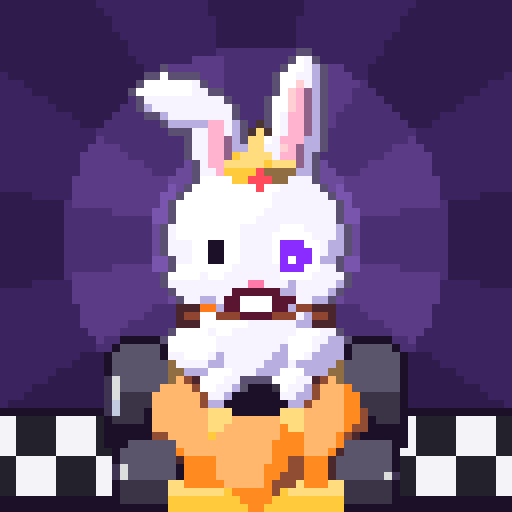
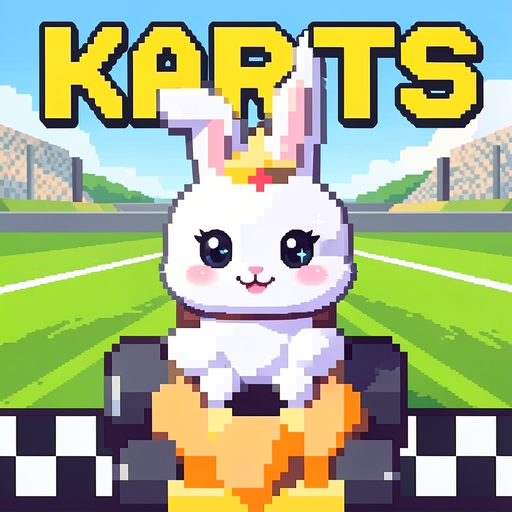
alfa 3982ca0: Karts: icono nuevo (CrazyBunny más mono, pista verde, título KARTS tras las orej

diff --git a/alfa/index.html b/alfa/index.html
@@ -10,10 +10,10 @@
 <link rel="preconnect" href="https://fonts.googleapis.com">
 <link rel="preconnect" href="https://fonts.gstatic.com" crossorigin>
 <link rel="stylesheet" href="https://fonts.googleapis.com/css2?family=Baloo+2:wght@600;700;800&family=Luckiest+Guy&display=swap">
-<link rel="stylesheet" href="core/css/base.css?v=df18fcc">
-<link rel="stylesheet" href="biblioteca/tienda.css?v=df18fcc">
-<link rel="stylesheet" href="novedades/ventana.css?v=df18fcc">
-<link rel="stylesheet" href="biblioteca/votos.css?v=df18fcc">
+<link rel="stylesheet" href="core/css/base.css?v=3982ca0">
+<link rel="stylesheet" href="biblioteca/tienda.css?v=3982ca0">
+<link rel="stylesheet" href="novedades/ventana.css?v=3982ca0">
+<link rel="stylesheet" href="biblioteca/votos.css?v=3982ca0">
 <style>
   /* la entrada de la web: una tarjeta por juego, con los colores y las letras de core */
   body { overflow: auto; touch-action: auto; align-items: flex-start; background-repeat: no-repeat; background-attachment: fixed; }
@@ -61,7 +61,7 @@
 </style>
 </head>
 <body>
-<script src="menu.js?v=df18fcc" data-base="" data-core="1" data-pagina=""></script>
+<script src="menu.js?v=3982ca0" data-base="" data-core="1" data-pagina=""></script>
 <div class="nov-fondo" id="novedades" hidden>
   <div class="nov-caja" role="dialog" aria-modal="true" aria-labelledby="nov-titulo">
     <div class="nov-cabeza"><h2 class="ol" id="nov-titulo">NOVEDADES</h2><p id="nov-sub"></p></div>
@@ -358,8 +358,8 @@
   </section>
   <p class="note" id="pie-fansof">Fans Of™ · © 2026 Arkioner y Pepins · MicroBlizz · Todos los derechos reservados</p>
 </main>
-<script src="core/js/nucleo.js?v=0-a928.df18fcc"></script>
-<script src="core/js/novedades.js?v=df18fcc"></script>
+<script src="core/js/nucleo.js?v=0-a929.3982ca0"></script>
+<script src="core/js/novedades.js?v=3982ca0"></script>
 <script>
 // La cuenta de la web es la misma de los juegos (core/js/sistema/cuenta.js, mismo navegador = misma sesión). Aquí no hay partida que subir.
 const AJUSTES = { id: 'web', guardado: 'fansof-web' }, SAVE_KEY = AJUSTES.guardado, SAVE = {};
@@ -368,7 +368,7 @@ const HOOKS = {};
 function hook(name, fn) { (HOOKS[name] = HOOKS[name] || []).push(fn); }
 function fire(name, ...a) { let out = ''; for (const fn of HOOKS[name] || []) { const r = fn(...a); if (typeof r === 'string') out += r; } return out; }
 </script>
-<script src="core/js/sistema/cuenta.js?v=df18fcc"></script>
+<script src="core/js/sistema/cuenta.js?v=3982ca0"></script>
 <script>NUCLEO.idiomaSolo({ en: ['core/idioma/en-raiz.js', 'novedades/en.js', 'biblioteca/en.js','games/rumble/idioma/en-7.js', 'games/td/idioma/en-2.js', 'games/survivors/idioma/en.js', 'games/crush/idioma/en-raiz.js', 'games/jump/idioma/en-raiz.js', 'games/taxi/idioma/en-raiz.js', 'games/dark/idioma/en-raiz.js', 'games/nova/idioma/en-raiz.js', 'games/nova/idioma/en-raiz-2.js', 'demos/beams/idioma/en-raiz.js', 'demos/snakes/idioma/en-raiz.js', 'demos/merge/idioma/en-raiz.js', 'demos/swipe/idioma/en-raiz.js', 'demos/pop/idioma/en-raiz.js', 'demos/vikings/idioma/en-raiz.js', 'demos/goose/idioma/en-raiz.js', 'demos/asalto/idioma/en-raiz.js', 'demos/auto/idioma/en-raiz.js', 'demos/shelter/idioma/en-raiz.js', 'demos/soccer/idioma/en-raiz.js', 'demos/air/idioma/en-raiz.js', 'games/island/idioma/en-raiz.js', 'demos/rumble-3d/idioma/en-raiz.js', 'demos/roguelite/idioma/en-raiz.js', 'demos/tactics-advance/idioma/en-raiz.js', 'games/rouflage/idioma/en-raiz.js', 'demos/dungeons/idioma/en-raiz.js', 'games/karts/idioma/en-raiz.js', 'demos/recruit/idioma/en-raiz.js', 'demos/terminal-shock/idioma/en-raiz.js', 'games/ratkov/idioma/en-raiz.js'] })</script>
 <script>
 // La versión y las novedades salen de los archivos de cada juego, así que esta página nunca se queda atrás.
@@ -394,14 +394,14 @@ const fail = id => () => {
 };
 
 </script>
-<script src="core/js/proximamente.js?v=df18fcc"></script>
-<script src="novedades/ventana.js?v=df18fcc"></script>
-<script src="biblioteca/tienda.js?v=df18fcc"></script>
-<script src="core/js/sistema/beta.js?v=df18fcc"></script>
-<script src="biblioteca/cuenta-web.js?v=df18fcc"></script>
-<script src="biblioteca/votos.js?v=df18fcc"></script>
-<script src="biblioteca/alfa.js?v=df18fcc"></script>
-<script src="core/js/sistema/analitica.js?v=df18fcc"></script>
-<script src="pie.js?v=df18fcc" defer></script>
+<script src="core/js/proximamente.js?v=3982ca0"></script>
+<script src="novedades/ventana.js?v=3982ca0"></script>
+<script src="biblioteca/tienda.js?v=3982ca0"></script>
+<script src="core/js/sistema/beta.js?v=3982ca0"></script>
+<script src="biblioteca/cuenta-web.js?v=3982ca0"></script>
+<script src="biblioteca/votos.js?v=3982ca0"></script>
+<script src="biblioteca/alfa.js?v=3982ca0"></script>
+<script src="core/js/sistema/analitica.js?v=3982ca0"></script>
+<script src="pie.js?v=3982ca0" defer></script>
 </body>
 </html>

diff --git a/alfa/games/rouflage/index.html b/alfa/games/rouflage/index.html
@@ -10,7 +10,7 @@
 <link rel="preconnect" href="https://fonts.googleapis.com">
 <link rel="preconnect" href="https://fonts.gstatic.com" crossorigin>
 <link rel="stylesheet" href="https://fonts.googleapis.com/css2?family=Baloo+2:wght@600;700;800&family=Luckiest+Guy&display=swap">
-<script src="../../core/js/nucleo.js?v=0.2.67-a928.df18fcc"></script>
+<script src="../../core/js/nucleo.js?v=0.2.67-a929.3982ca0"></script>
 <script>NUCLEO.estilos('../../core/css/base.css', '../../core/css/menus.css', '../../core/css/menus-extra.css')</script>
 <script>NUCLEO.estilos('estilo.css', 'estilo-taller.css', 'estilo-pantallas.css', 'estilo-pvp.css', 'estilo-armario.css', 'estilo-menus.css', 'estilo-misiones.css', 'estilo-escenario.css', 'estilo-votos.css', 'estilo-gacha.css', 'estilo-compra.css', 'estilo-fin.css', 'estilo-talentos.css', 'estilo-chat.css', 'estilo-titulo.css', 'estilo-barra.css', 'estilo-sala-viva.css', 'estilo-obra.css', 'estilo-ayuda.css', 'estilo-carga.css')</script>      <!-- la intro, la última: pisa el #carga de estilo.css (antes iba en línea dentro de #carga) -->
 </head>

diff --git a/alfa/demos/rumble-v2/index.html b/alfa/demos/rumble-v2/index.html
@@ -18,7 +18,7 @@
 <!-- core/js/nucleo.js carga lo común y el juego. LA VERSIÓN SE ESCRIBE SOLO AQUÍ, en su ?v= -->
 <!-- GENERADO por herramientas/rumble_v2.py desde games/rumble/index.html: no editar a mano -->
 <script>try { const u = new URL(location.href); if (u.searchParams.get('nube') !== '0') { u.searchParams.set('nube', '0'); history.replaceState(null, '', u); } } catch (e) { /* sin dirección */ }</script>
-<script src="../../core/js/nucleo.js?v=0.9.158-a928.df18fcc"></script>
+<script src="../../core/js/nucleo.js?v=0.9.158-a929.3982ca0"></script>
 <script>NUCLEO.estilos('../../core/css/menus.css', '../../games/rumble/css/estilos-partida.css', '../../games/rumble/css/estilos-extra.css', '../../games/rumble/css/arena.css', '../../core/css/biblioteca.css', '../../games/rumble/css/facciones-y-jefes.css', '../../core/css/clasificacion.css', '../../games/rumble/css/frases.css', '../../games/rumble/css/mitica.css', '../../games/rumble/css/paletas.css')</script>
 
 </head>

diff --git a/alfa/games/karts/index.html b/alfa/games/karts/index.html
@@ -8,7 +8,7 @@
 <meta name="description" content="Fans of Karts (juego): carreras de karts en pixel art de consola portátil con los líderes de Fans of Rumble. Tres pistas, seis pilotos, objetos con mala idea y Microblizz, que ha comprado la carrera.">
 <link rel="icon" type="image/png" href="img/favicon.png">
 <link rel="apple-touch-icon" href="img/icon-192.png">
-<script src="../../core/js/nucleo.js?v=0.7.19-a928.df18fcc"></script>
+<script src="../../core/js/nucleo.js?v=0.7.19-a929.3982ca0"></script>
 <script>NUCLEO.estilos('../../core/css/base.css', '../../core/css/menus.css', '../../core/css/menus-tienda.css', '../../core/css/menus-extra.css', 'css/tienda.css', 'css/pvp.css')</script>
 <link rel="stylesheet" href="https://fonts.googleapis.com/css2?family=Baloo+2:wght@600;700;800&family=Luckiest+Guy&display=swap">
 <style>

diff --git a/alfa/games/dark/index.html b/alfa/games/dark/index.html
@@ -12,7 +12,7 @@
 <link rel="stylesheet" href="https://fonts.googleapis.com/css2?family=Baloo+2:wght@600;700;800&family=Luckiest+Guy&family=Press+Start+2P&family=Pixelify+Sans:wght@400;600;700&display=swap">
 <link rel="stylesheet" href="css/dark.css?v=0.2.4">
 <!-- Prototipo: no usa NUCLEO (tiene su propia partida guardada). Carga de core el arte, la música, los efectos y las cifras del Rumble.
-     VERSIÓN para desplegar.py (que la busca así): nucleo.js?v=0.2.7-a928.df18fcc' (aquí solo se anota; súbela junto al ?v= de los scripts). -->
+     VERSIÓN para desplegar.py (que la busca así): nucleo.js?v=0.2.7-a929.3982ca0' (aquí solo se anota; súbela junto al ?v= de los scripts). -->
 </head>
 <body>
 <canvas id="cv" aria-label="Mazmorra"></canvas>

diff --git a/alfa/games/rumble/index.html b/alfa/games/rumble/index.html
@@ -16,7 +16,7 @@
 <link rel="preconnect" href="https://fonts.gstatic.com" crossorigin>
 <link rel="stylesheet" href="https://fonts.googleapis.com/css2?family=Baloo+2:wght@600;700;800&family=Luckiest+Guy&display=swap">
 <!-- core/js/nucleo.js carga lo común y el juego. LA VERSIÓN SE ESCRIBE SOLO AQUÍ, en su ?v= -->
-<script src="../../core/js/nucleo.js?v=0.9.162-a928.df18fcc"></script>
+<script src="../../core/js/nucleo.js?v=0.9.162-a929.3982ca0"></script>
 <script>NUCLEO.estilos('../../core/css/menus.css', 'css/estilos-partida.css', 'css/estilos-extra.css', 'css/arena.css', '../../core/css/biblioteca.css', 'css/facciones-y-jefes.css', '../../core/css/clasificacion.css', 'css/frases.css', 'css/mitica.css', 'css/paletas.css')</script>
 
 </head>

diff --git a/alfa/games/jump/index.html b/alfa/games/jump/index.html
@@ -12,7 +12,7 @@
 <link rel="preconnect" href="https://fonts.gstatic.com" crossorigin>
 <link rel="stylesheet" href="https://fonts.googleapis.com/css2?family=Baloo+2:wght@600;700;800&family=Luckiest+Guy&display=swap">
 <!-- ?v= es la versión del juego (la misma en la web y en la app): súbela al publicar y pon su entrada en js/novedades.js -->
-<script src="../../core/js/nucleo.js?v=0.3.20-a928.df18fcc"></script>
+<script src="../../core/js/nucleo.js?v=0.3.20-a929.3982ca0"></script>
 <script>NUCLEO.estilos('../../core/css/base.css', '../../core/css/menus.css')</script>
 <style>
 /* Fans of Jump: un solo canvas a la resolución real de la pantalla, con los dibujos 3D. El mundo mide unos 200 de ancho y se

diff --git a/alfa/games/decks/index.html b/alfa/games/decks/index.html
@@ -15,7 +15,7 @@
 <link rel="preconnect" href="https://fonts.gstatic.com" crossorigin>
 <link rel="stylesheet" href="https://fonts.googleapis.com/css2?family=Baloo+2:wght@600;700;800&family=Luckiest+Guy&display=swap">
 <!-- core/js/nucleo.js carga lo común y el juego. LA VERSIÓN SE ESCRIBE SOLO AQUÍ, en su ?v= -->
-<script src="../../core/js/nucleo.js?v=0.2.25-a928.df18fcc"></script>
+<script src="../../core/js/nucleo.js?v=0.2.25-a929.3982ca0"></script>
 <script>NUCLEO.estilos('../../core/css/base.css', '../../core/css/menus.css', 'css/decks.css', 'css/decks-reunion.css', 'css/decks-anim.css', 'css/decks-campana.css', 'css/decks-lideres.css')</script>
 </head>
 <body>

diff --git a/alfa/games/ratkov/index.html b/alfa/games/ratkov/index.html
@@ -13,7 +13,7 @@
 <link rel="preconnect" href="https://fonts.gstatic.com" crossorigin>
 <link rel="stylesheet" href="https://fonts.googleapis.com/css2?family=VT323&family=Russo+One&display=swap">
 <script src="https://cdnjs.cloudflare.com/ajax/libs/three.js/r128/three.min.js"></script>
-<script src="../../core/js/nucleo.js?v=0.2.33-a928.df18fcc"></script>
+<script src="../../core/js/nucleo.js?v=0.2.33-a929.3982ca0"></script>
 <script>NUCLEO.estilos('../../core/css/base.css', '../../core/css/menus.css')</script>
 <link rel="stylesheet" href="estilo.css?v=0.2.3">
 <link rel="stylesheet" href="estilo-refugio.css?v=0.2.3">

diff --git a/alfa/games/survivors/index.html b/alfa/games/survivors/index.html
@@ -15,7 +15,7 @@
 <link rel="preconnect" href="https://fonts.gstatic.com" crossorigin>
 <link rel="stylesheet" href="https://fonts.googleapis.com/css2?family=Baloo+2:wght@600;700;800&family=Luckiest+Guy&display=swap">
 <!-- core/js/nucleo.js carga lo común y el juego. LA VERSIÓN SE ESCRIBE SOLO AQUÍ, en su ?v= -->
-<script src="../../core/js/nucleo.js?v=0.1.75-a928.df18fcc"></script>
+<script src="../../core/js/nucleo.js?v=0.1.75-a929.3982ca0"></script>
 <script>NUCLEO.estilos('../../core/css/base.css', '../../core/css/menus.css', 'css/survivors.css', '../../core/css/biblioteca.css')</script>
 </head>
 <body>

diff --git a/alfa/games/td/index.html b/alfa/games/td/index.html
@@ -15,7 +15,7 @@
 <link rel="preconnect" href="https://fonts.gstatic.com" crossorigin>
 <link rel="stylesheet" href="https://fonts.googleapis.com/css2?family=Baloo+2:wght@600;700;800&family=Luckiest+Guy&display=swap">
 <!-- core/js/nucleo.js carga lo común y el juego. LA VERSIÓN SE ESCRIBE SOLO AQUÍ, en su ?v= -->
-<script src="../../core/js/nucleo.js?v=0.13.91-a928.df18fcc"></script>
+<script src="../../core/js/nucleo.js?v=0.13.91-a929.3982ca0"></script>
 <script>NUCLEO.estilos('../../core/css/base.css', 'css/td.css', '../../core/css/menus.css', '../../core/css/biblioteca.css')</script>
 </head>
 <body>

diff --git a/alfa/demos/goose/index.html b/alfa/demos/goose/index.html
@@ -10,7 +10,7 @@
 <link rel="preconnect" href="https://fonts.gstatic.com" crossorigin>
 <link rel="stylesheet" href="https://fonts.googleapis.com/css2?family=Jersey+15&family=Pirata+One&display=swap">
 <!-- ?v= es la versión de la demo: súbela al publicar -->
-<script src="../../core/js/nucleo.js?v=0.10.0-a928.df18fcc"></script>
+<script src="../../core/js/nucleo.js?v=0.10.0-a929.3982ca0"></script>
 <script>NUCLEO.estilos('../../core/css/base.css', '../../core/css/menus.css')</script>
 <style>
 /* Fans of Goose: un solo canvas en vertical, a la resolución real del móvil. El mundo mide 200 de ancho. */
